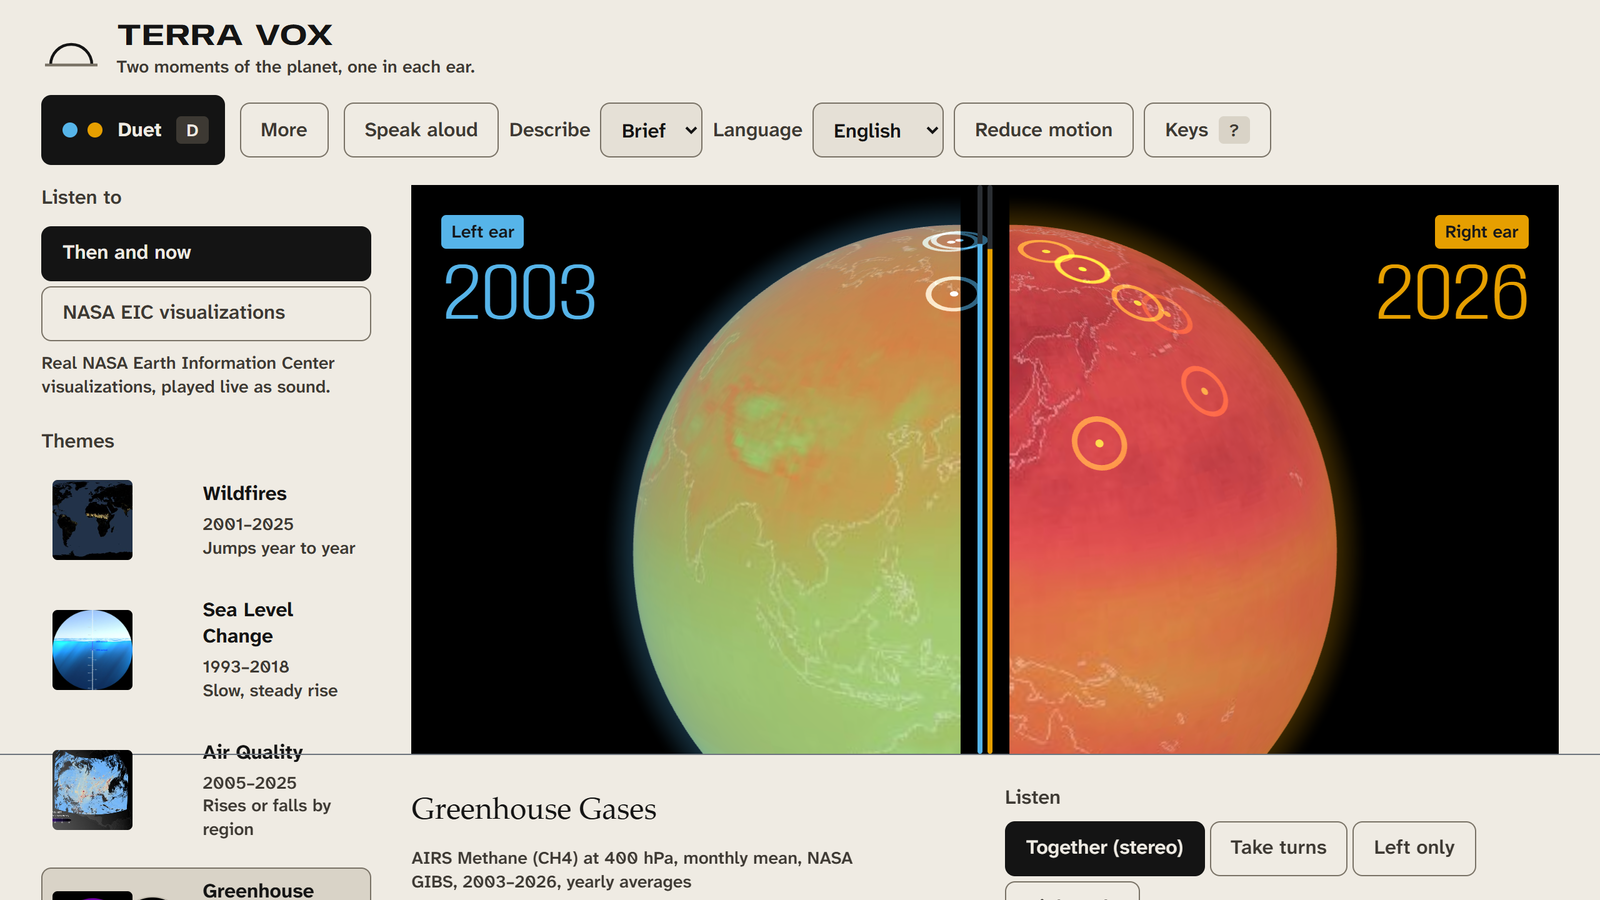
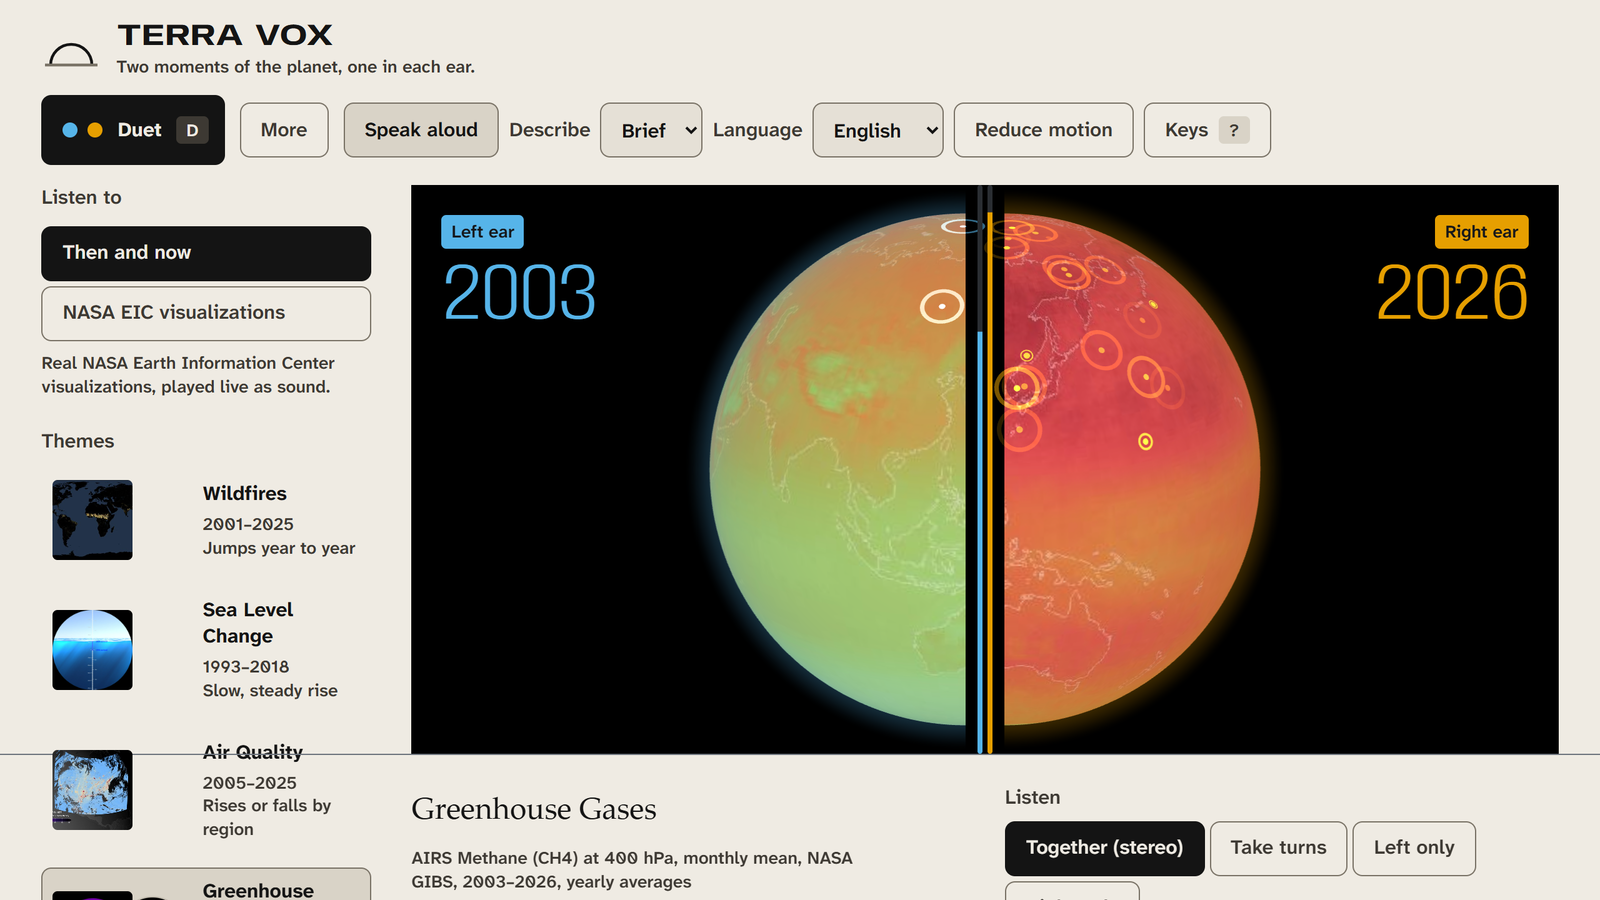
Show the whole Earth, centred; make the sound steadier on slow laptops
- The planet is drawn at 0.9x the stage height and centred, instead of 1.15x
  with its lower limb cropped by the horizon, which hid the southern hemisphere
  on short laptop screens (DESIGN.md and the README screenshot updated).
- Sound: the scheduler's look-ahead is 0.4 s instead of 0.1 s, so notes survive
  the short page stalls a slow laptop has. Measured on a slow laptop: notes
  starting with almost no margin 52% -> 16%, worst lateness 344 ms -> ~107 ms.
- The offline copy (247 files, 18 MB) is fetched one file at a time, and only
  while nothing is playing; it still installs completely (247 of 247).

Changed region(s): [[0.375, 0.2178, 0.8438, 0.84], [0.2188, 0.0933, 0.3125, 0.1867]]

diff --git a/web/src/ui/globeGL.js b/web/src/ui/globeGL.js
@@ -9,8 +9,7 @@ const TAU = Math.PI * 2;
 const DEG = Math.PI / 180;
 const POOL = 96;
 const IDLE_MS = 5000;     // DESIGN.md: loops stop after five seconds paused
-const DIAMETER = 1.15;    // planet diameter as a share of stage height
-const HEADROOM = 0.07;    // space above the planet, as a share of stage height
+const DIAMETER = 0.9;     // planet diameter as a share of stage height: the whole planet fits, with margin
 const PART = 0.075;       // how far each Duet half leaves the seam, in planet radii
 const SWEEP_PAD = 0.15;   // the cut starts above the limb and ends below the horizon
 
@@ -405,13 +404,14 @@ export function createWebGLGlobe(container, onLost) {
     });
     if (!active) return;
 
-    // Radius 1 is drawn at 1.15 x half the stage height; the planet's top
-    // sits HEADROOM below the top edge and its lower limb falls under the horizon.
+    // Radius 1 is drawn at DIAMETER x half the stage height, and the whole planet is centred in the
+    // stage (it used to be 1.15x with its lower limb cut off by the horizon, which hid the southern
+    // hemisphere on short laptop screens).
     const halfH = 1 / DIAMETER;
     const halfW = (halfH * size.w) / size.h;
     camera.left = -halfW; camera.right = halfW; camera.top = halfH; camera.bottom = -halfH;
     camera.updateProjectionMatrix();
-    const cy = halfH * (1 - 2 * HEADROOM) - 1;
+    const cy = 0;
     const gap = PART * part.value;
     main.group.position.set(-gap, cy, 0);
     other.group.position.set(gap, cy, 0);

diff --git a/web/vite.config.js b/web/vite.config.js
@@ -27,8 +27,19 @@ function offline() {
 const CACHE = 'terra-vox-${version}';
 const FILES = ${JSON.stringify(files)};
 
+// The offline copy is about 18 MB. Fetching it all at once starves a small laptop (and the sound),
+// so it is fetched one file at a time with a pause between files; one failure never stops the rest.
+const pause = (ms) => new Promise((r) => setTimeout(r, ms));
+async function precache() {
+  const c = await caches.open(CACHE);
+  for (const url of FILES) {
+    try { await c.add(new Request(url, { cache: 'reload' })); } catch { /* skip it, keep going */ }
+    await pause(120);
+  }
+}
+
 self.addEventListener('install', (e) => {
-  e.waitUntil(caches.open(CACHE).then((c) => c.addAll(FILES)).then(() => self.skipWaiting()));
+  e.waitUntil(precache().then(() => self.skipWaiting()));
 });
 
 self.addEventListener('activate', (e) => {

diff --git a/web/src/main.js b/web/src/main.js
@@ -778,7 +778,11 @@ if (!prefs.introSeen || hasShared) openIntro();
 // Offline: cache the app and its data after the first visit (public/sw.js).
 if ('serviceWorker' in navigator && import.meta.env.PROD) {
   // The offline copy is several megabytes: fetch it after the page has settled, not alongside the first load.
-  const install = () => navigator.serviceWorker.register('./sw.js').catch(() => { /* offline install is optional */ });
+  // ...and never while music is playing: wait until it is paused.
+  const install = () => {
+    if (state.playing) { setTimeout(install, 5000); return; }
+    navigator.serviceWorker.register('./sw.js').catch(() => { /* offline install is optional */ });
+  };
   window.addEventListener('load', () => setTimeout(install, 8000));
 }
 

diff --git a/web/src/audio/sonify.js b/web/src/audio/sonify.js
@@ -94,6 +94,11 @@ export function whenHeard(time, fn) {
 export async function startAudio() {
   // iPhone: without a "playback" session, the ringer's silent switch mutes Web Audio.
   if (navigator.audioSession) navigator.audioSession.type = 'playback';
+  // The page shares one thread with the sound's scheduler. A longer look-ahead (0.4 s, not 0.1 s) lets
+  // notes survive the brief stalls a slow laptop has while it draws the globe; it does not delay the sound.
+  const ctx = Tone.getContext();
+  ctx.lookAhead = 0.4;
+  ctx.updateInterval = 0.05;
   await Tone.start();
   const m = getMaster();
   const transport = Tone.getTransport();

diff --git a/DESIGN.md b/DESIGN.md
@@ -222,9 +222,10 @@ Duet mode: the stage spans the full width, one hard seam in the middle
 │ "Four buzzy notes up at E♭5, against one calm C4."    gap table      │
 ```
 
-- **The planet is photographed, not displayed.** In single mode its diameter is about 1.15×
-  the stage height and its lower limb is cropped by the horizon, the way it looks from
-  orbit. In Duet the two halves meet on the seam. Never shrink it to "fit nicely".
+- **The whole planet is visible and centred.** Its diameter is 0.9× the stage height, with equal
+  space above and below. (The first design drew it at 1.15× and cropped its lower limb at the horizon,
+  the way it looks from orbit; on a 1366×768 laptop that hid the southern hemisphere and the owner
+  asked for the full Earth, so this overrides it.) In Duet the two halves meet on the seam.
 - **The horizon** is the bottom edge of the stage: a 1px `edge` line where space ends and the
   hull begins. It is the only full-width rule on the page.
 - **Text never overlaps the planet** except the Duet ear years and tags, which sit on space
